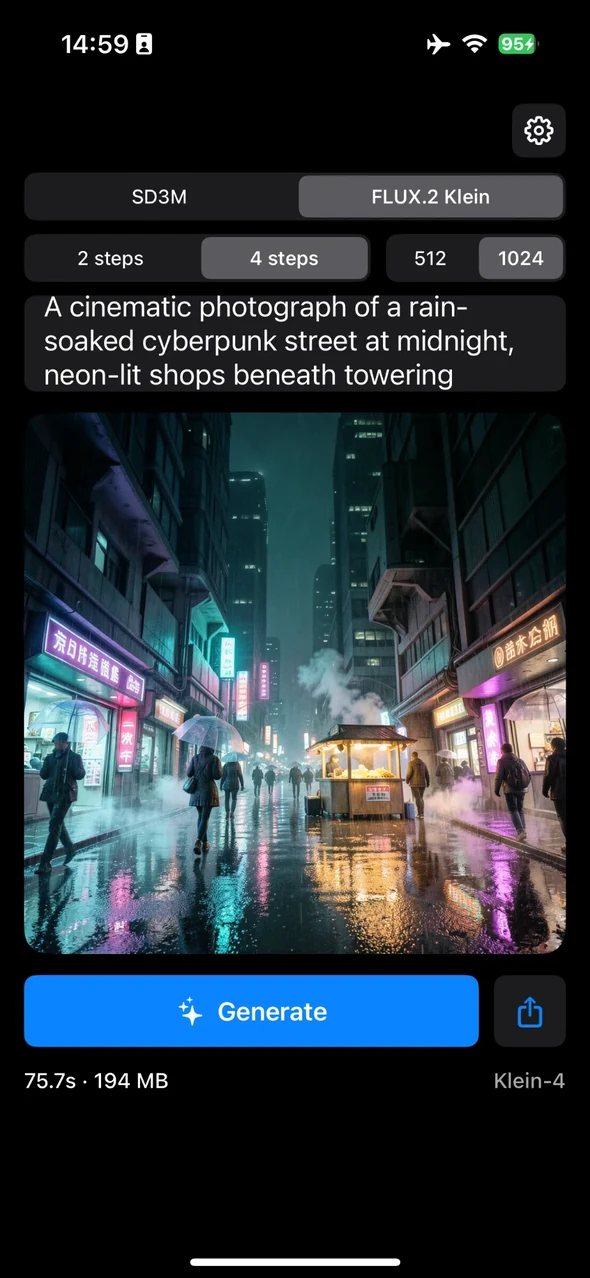
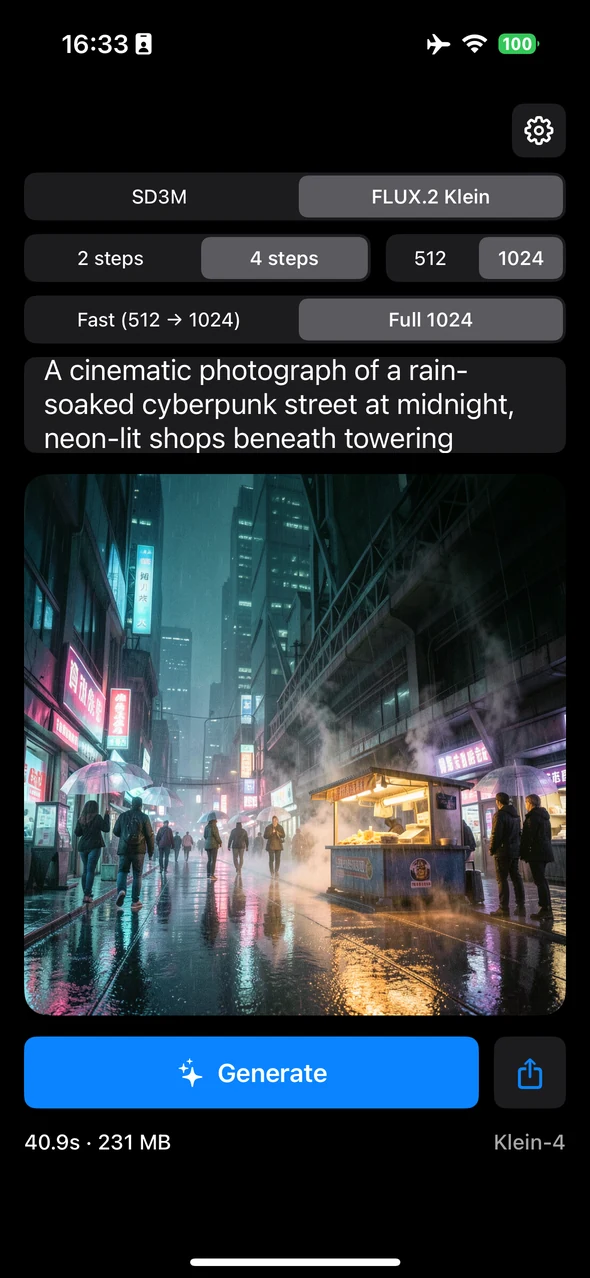
FLUX.2 Klein: split-linear timings (22 s mixed, ~43 s full) and new app screenshot

diff --git a/index.html b/index.html
@@ -4,7 +4,7 @@
 <meta charset="utf-8">
 <meta name="viewport" content="width=device-width, initial-scale=1">
 <title>MobileDiffuser — Diffusion Models on the iPhone Neural Engine</title>
-<meta name="description" content="Open-source iOS app running FLUX.2 Klein and distilled SD3 Medium fully on device with Core ML on the Apple Neural Engine. FLUX.2 Klein 1024px in 25 s with mixed-resolution sampling; SD3 Medium: 512px in 9.4 s, 1024px in 31 s on iPhone 15 Pro, with ReSeed seed diversity for about 0.2% extra time.">
+<meta name="description" content="Open-source iOS app running FLUX.2 Klein and distilled SD3 Medium fully on device with Core ML on the Apple Neural Engine. FLUX.2 Klein 1024px in 22 s with mixed-resolution sampling; SD3 Medium: 512px in 9.4 s, 1024px in 31 s on iPhone 15 Pro, with ReSeed seed diversity for about 0.2% extra time.">
 <meta property="og:title" content="MobileDiffuser — Diffusion Models on the iPhone Neural Engine">
 <meta property="og:description" content="1024px in 31 s, 512px in 9.4 s, ~146 MB peak app memory. Fully on device, free and open source, no sign-up.">
 <meta property="og:image" content="https://twwinde.github.io/mobilediffuser-project-page/assets/og.jpg">
@@ -16,7 +16,7 @@
 <link rel="preconnect" href="https://fonts.googleapis.com">
 <link rel="preconnect" href="https://fonts.gstatic.com" crossorigin>
 <link href="https://fonts.googleapis.com/css2?family=Instrument+Serif:ital@0;1&family=Inter:wght@400;500;600;700&family=JetBrains+Mono:wght@400;500;600&display=swap" rel="stylesheet">
-<link rel="stylesheet" href="styles.css?v=20261115a">
+<link rel="stylesheet" href="styles.css?v=20261115b">
 </head>
 <body>
 <a class="skip" href="#main">Skip to content</a>
@@ -50,7 +50,7 @@
     <div class="hero__copy">
       <p class="eyebrow"><span class="dot"></span>Free · No sign-up · Open source · iOS · Core ML · Apple Neural Engine</p>
       <h1>Large diffusion models, <em>entirely on your iPhone.</em></h1>
-      <p class="lede">MobileDiffuser runs <strong>FLUX.2 Klein</strong> and a distilled <strong>SD3 Medium</strong> on the Neural Engine — text encoder, denoiser and VAE, no server, no GPU fallback. On an iPhone&nbsp;15&nbsp;Pro: SD3 Medium at 512&nbsp;px in <strong>9.4&nbsp;s</strong> and 1024&nbsp;px in <strong>31&nbsp;s</strong>, FLUX.2 Klein at 1024&nbsp;px in <strong>25&nbsp;s</strong> with mixed-resolution sampling, in about 200&nbsp;MB of app memory.</p>
+      <p class="lede">MobileDiffuser runs <strong>FLUX.2 Klein</strong> and a distilled <strong>SD3 Medium</strong> on the Neural Engine — text encoder, denoiser and VAE, no server, no GPU fallback. On an iPhone&nbsp;15&nbsp;Pro: SD3 Medium at 512&nbsp;px in <strong>9.4&nbsp;s</strong> and 1024&nbsp;px in <strong>31&nbsp;s</strong>, FLUX.2 Klein at 1024&nbsp;px in <strong>22&nbsp;s</strong> with mixed-resolution sampling, in about 200&nbsp;MB of app memory.</p>
       <div class="cta">
         <a class="btn btn--primary" href="https://github.com/TWWinde/MobileDiffuser/tree/MCL" target="_blank" rel="noopener">View the code</a>
         <a class="btn btn--ghost" href="https://huggingface.co/Wenwu2000/MobileDiffuser-SD3-medium" target="_blank" rel="noopener">🤗 Core ML models</a>
@@ -67,10 +67,10 @@
       </figure>
       <div class="phone">
         <div class="phone__island"></div>
-        <img src="assets/app-klein.webp" alt="" width="590" height="1278">
+        <img src="assets/app-klein.webp?v=20261115b" alt="" width="590" height="1278">
       </div>
       <div class="chip chip--a"><b class="mono">100%</b> ops on ANE</div>
-      <div class="chip chip--b"><b class="mono">75.7 s</b> · Klein 1024</div>
+      <div class="chip chip--b"><b class="mono">40.9 s</b> · Klein 1024</div>
     </div>
   </div>
 </section>
@@ -80,7 +80,7 @@
   <div class="wrap stats__grid">
     <div class="stat reveal"><div class="stat__n"><span data-count="9.4" data-dec="1">9.4</span><small>s</small></div><p>SD3 Medium · 512 px<br>4 steps, warm, iPhone 15 Pro</p></div>
     <div class="stat reveal"><div class="stat__n"><span data-count="31" data-dec="0">31</span><small>s</small></div><p>SD3 Medium · 1024 px<br>4 steps, tiled VAE included</p></div>
-    <div class="stat reveal"><div class="stat__n"><span data-count="25" data-dec="0">25</span><small>s</small></div><p>FLUX.2 Klein · 1024 px<br>mixed-resolution, 53 s at full resolution</p></div>
+    <div class="stat reveal"><div class="stat__n"><span data-count="22" data-dec="0">22</span><small>s</small></div><p>FLUX.2 Klein · 1024 px<br>mixed-resolution, about 43 s at full resolution</p></div>
     <div class="stat reveal"><div class="stat__n"><span data-count="220" data-dec="0">220</span><small>MB</small></div><p>app memory with FLUX.2 Klein<br>at 1024 px (approximate)</p></div>
   </div>
 </section>
@@ -185,22 +185,22 @@
     <div class="probe reveal">
       <div class="probe__head"><h3>FLUX.2 Klein · 1024 px · 4 steps in the app</h3><span class="mono">iPhone 15 Pro · iOS 18.5 · warm</span></div>
       <div class="bars">
-        <div class="bar"><span>Text encoder (Qwen3)</span><div class="bar__track"><i style="--w:3%"></i></div><b class="mono">1.7 s</b></div>
-        <div class="bar bar--good"><span>Denoiser, 4 steps</span><div class="bar__track"><i style="--w:88%"></i></div><b class="mono">46.8 s</b></div>
-        <div class="bar"><span>VAE, 3 × 3 tiles</span><div class="bar__track"><i style="--w:9%"></i></div><b class="mono">4.5 s</b></div>
+        <div class="bar"><span>Text encoder (Qwen3)</span><div class="bar__track"><i style="--w:4%"></i></div><b class="mono">1.7 s</b></div>
+        <div class="bar bar--good"><span>Denoiser, 4 steps</span><div class="bar__track"><i style="--w:85%"></i></div><b class="mono">36 s</b></div>
+        <div class="bar"><span>VAE, 3 × 3 tiles</span><div class="bar__track"><i style="--w:11%"></i></div><b class="mono">4.6 s</b></div>
       </div>
-      <p class="probe__note">About 53 s per image and ~220 MB of app memory at full resolution. Storing the rotary position embedding as [real | imaginary] halves instead of interleaved pairs — the same maths — removed about a third of every block's time on the Neural Engine (77 s before). The first run also compiles the 37 stages on the phone (about 3 minutes, once).</p>
+      <p class="probe__note">About 43 s per image (two runs: 41 and 45 s) and ~230 MB of app memory at full resolution, down from 77 s with two rewrites that leave the maths unchanged: storing the rotary position embedding as [real | imaginary] halves instead of interleaved pairs, and splitting the fused 27,648-wide projections into 3,072-wide linears — the Neural Engine is slow on very wide tensors. The first run also compiles the 37 stages on the phone (about 3 minutes, once).</p>
     </div>
 
     <h3 class="subhead reveal">Mixed-resolution sampling: <em>compose at 512, finish at 1024.</em></h3>
-    <p class="section__lede">A 1024 step costs about 11.7 s on the phone; a 512 step about 2.6 s. The early steps only decide the composition, so the app runs them at 512, upsamples the clean-image estimate, adds noise back, and spends a single step at 1024 on detail. No retraining and no new model — both stage sets are the same weights.</p>
+    <p class="section__lede">A 1024 step costs about 9 s on the phone; a 512 step about 2.5 s. The early steps only decide the composition, so the app runs them at 512, upsamples the clean-image estimate, adds noise back, and spends a single step at 1024 on detail. No retraining and no new model — both stage sets are the same weights.</p>
 
     <div class="pipe reveal" role="img" aria-label="Mixed-resolution sampling: three steps at 512, upsample and re-noise, one step at 1024, VAE decode">
       <div class="pipe__node pipe__node--wide"><span class="pipe__tag pipe__tag--hot">ANE · steps 1–3</span><b>512 px stages</b><small>1,024 image tokens · ~2.7 s per step</small></div>
       <div class="pipe__arrow"></div>
       <div class="pipe__node"><span class="pipe__tag">CPU</span><b>Upsample ×2, re-noise</b><small>bicubic in VAE latent space, σ = 0.77</small></div>
       <div class="pipe__arrow"></div>
-      <div class="pipe__node pipe__node--wide"><span class="pipe__tag pipe__tag--hot">ANE · step 4</span><b>1024 px stages</b><small>4,096 image tokens · ~11.7 s</small></div>
+      <div class="pipe__node pipe__node--wide"><span class="pipe__tag pipe__tag--hot">ANE · step 4</span><b>1024 px stages</b><small>4,096 image tokens · ~9 s</small></div>
       <div class="pipe__arrow"></div>
       <div class="pipe__node"><span class="pipe__tag">ANE</span><b>VAE decoder</b><small>3 × 3 tiles</small></div>
     </div>
@@ -214,10 +214,10 @@
         <div class="probe reveal">
           <div class="probe__head"><h3>FLUX.2 Klein · 1024 px in the app</h3><span class="mono">iPhone 15 Pro · warm</span></div>
           <div class="bars">
-            <div class="bar"><span>Full resolution, 4 steps</span><div class="bar__track"><i style="--w:100%"></i></div><b class="mono">53 s</b></div>
-            <div class="bar bar--good"><span>Mixed: 3 × 512 + 1 × 1024</span><div class="bar__track"><i style="--w:46%"></i></div><b class="mono">25 s</b></div>
+            <div class="bar"><span>Full resolution, 4 steps</span><div class="bar__track"><i style="--w:100%"></i></div><b class="mono">43 s</b></div>
+            <div class="bar bar--good"><span>Mixed: 3 × 512 + 1 × 1024</span><div class="bar__track"><i style="--w:53%"></i></div><b class="mono">22 s</b></div>
           </div>
-          <p class="probe__note">Text 1.7 s, denoising 18.9 s, VAE 4.0 s. Checked by eye on three prompts, not a benchmark; a seed does not reproduce the full-resolution image. The first mixed run compiles the 512 stages once.</p>
+          <p class="probe__note">Text 1.7 s, denoising 16.5 s, VAE 4.3 s. Checked by eye on three prompts, not a benchmark; a seed does not reproduce the full-resolution image. The first mixed run compiles the 512 stages once.</p>
         </div>
       </div>
     </div>
@@ -270,34 +270,34 @@
   <div class="wrap">
     <p class="kicker">Performance</p>
     <h2>Measured on an iPhone 15 Pro, <em>warm, end to end.</em></h2>
-    <div class="perf reveal" style="--max:53">
+    <div class="perf reveal" style="--max:42.6">
       <div class="perf__row">
         <div class="perf__label"><b>512 × 512</b><span>SD3 Medium · 4 steps</span></div>
-        <div class="stack" style="--total:9.4; max-width:17.7%">
+        <div class="stack" style="--total:9.4; max-width:22.1%">
           <i class="s-text" style="--v:0.7" title="Text encoders 0.7 s"></i><i class="s-mmdit" style="--v:8.2" title="MMDiT 8.2 s"></i><i class="s-vae" style="--v:0.4" title="VAE 0.4 s"></i>
         </div>
         <div class="perf__total mono">9.4 s</div>
       </div>
       <div class="perf__row">
         <div class="perf__label"><b>1024 × 1024</b><span>SD3 Medium · 4 steps</span></div>
-        <div class="stack" style="--total:31.4; max-width:59.2%">
+        <div class="stack" style="--total:31.4; max-width:73.7%">
           <i class="s-text" style="--v:0.7" title="Text encoders 0.7 s"></i><i class="s-mmdit" style="--v:25.2" title="MMDiT 25.2 s"></i><i class="s-vae" style="--v:5.4" title="VAE 5.4 s"></i>
         </div>
         <div class="perf__total mono">31 s</div>
       </div>
       <div class="perf__row">
         <div class="perf__label"><b>1024 × 1024</b><span>FLUX.2 Klein · 4 steps</span></div>
-        <div class="stack" style="--total:53; max-width:100.0%">
-          <i class="s-text" style="--v:1.7" title="Text encoder 1.7 s"></i><i class="s-mmdit" style="--v:46.8" title="Denoiser 46.8 s"></i><i class="s-vae" style="--v:4.5" title="VAE 4.5 s"></i>
+        <div class="stack" style="--total:42.6; max-width:100.0%">
+          <i class="s-text" style="--v:1.7" title="Text encoder 1.7 s"></i><i class="s-mmdit" style="--v:36.3" title="Denoiser 34–38 s"></i><i class="s-vae" style="--v:4.6" title="VAE 4.6 s"></i>
         </div>
-        <div class="perf__total mono">53 s</div>
+        <div class="perf__total mono">43 s</div>
       </div>
       <div class="perf__row">
         <div class="perf__label"><b>1024 × 1024</b><span>FLUX.2 Klein · mixed-resolution</span></div>
-        <div class="stack" style="--total:24.6; max-width:46.4%">
-          <i class="s-text" style="--v:1.7" title="Text encoder 1.7 s"></i><i class="s-mmdit" style="--v:18.9" title="Denoiser 18.9 s"></i><i class="s-vae" style="--v:4.0" title="VAE 4.0 s"></i>
+        <div class="stack" style="--total:22.5; max-width:52.8%">
+          <i class="s-text" style="--v:1.7" title="Text encoder 1.7 s"></i><i class="s-mmdit" style="--v:16.5" title="Denoiser 16.5 s"></i><i class="s-vae" style="--v:4.3" title="VAE 4.3 s"></i>
         </div>
-        <div class="perf__total mono">25 s</div>
+        <div class="perf__total mono">22 s</div>
       </div>
       <div class="legend"><span><i class="s-text"></i>Text encoders</span><span><i class="s-mmdit"></i>Denoiser (4 steps)</span><span><i class="s-vae"></i>VAE decode</span></div>
     </div>
@@ -309,8 +309,8 @@
           <tr><td>SD3-M 2-step</td><td>512</td><td>—</td><td>—</td><td>—</td><td class="mono">~5.6 s</td><td class="mono">~86 MB</td></tr>
           <tr><td>SD3-M 4-step <span class="pill">+ ReSeed</span></td><td>512</td><td class="mono">0.7 s</td><td class="mono">8.2 s</td><td class="mono">0.4 s</td><td class="mono">~9.4 s</td><td class="mono">~58 MB</td></tr>
           <tr><td>SD3-M 4-step</td><td>1024</td><td class="mono">0.7 s</td><td class="mono">25.2 s</td><td class="mono">5.4 s</td><td class="mono">~31 s</td><td class="mono">~146 MB</td></tr>
-          <tr><td>FLUX.2 Klein 4-step</td><td>1024</td><td class="mono">1.7 s</td><td class="mono">46.8 s</td><td class="mono">4.5 s</td><td class="mono">~53 s</td><td class="mono">~220 MB</td></tr>
-          <tr><td>FLUX.2 Klein <span class="pill">mixed 512 → 1024</span></td><td>1024</td><td class="mono">1.7 s</td><td class="mono">18.9 s</td><td class="mono">4.0 s</td><td class="mono">~25 s</td><td class="mono">~220 MB</td></tr>
+          <tr><td>FLUX.2 Klein 4-step</td><td>1024</td><td class="mono">1.7 s</td><td class="mono">34–38 s</td><td class="mono">4.6 s</td><td class="mono">~41–45 s</td><td class="mono">~230 MB</td></tr>
+          <tr><td>FLUX.2 Klein <span class="pill">mixed 512 → 1024</span></td><td>1024</td><td class="mono">1.7 s</td><td class="mono">16.5 s</td><td class="mono">4.3 s</td><td class="mono">~22.5 s</td><td class="mono">~220 MB</td></tr>
         </tbody>
       </table>
       <p class="table-note">iOS 18.5, ANE-first. The first run after install also compiles the stages on device, once (about 45 s for SD3 Medium at 1024, about 3 minutes for FLUX.2 Klein); cached afterwards.</p>
@@ -420,6 +420,6 @@ open MobileDiffuser.xcodeproj
   </div>
 </footer>
 
-<script src="app.js?v=20261115a" defer></script>
+<script src="app.js?v=20261115b" defer></script>
 </body>
 </html>
